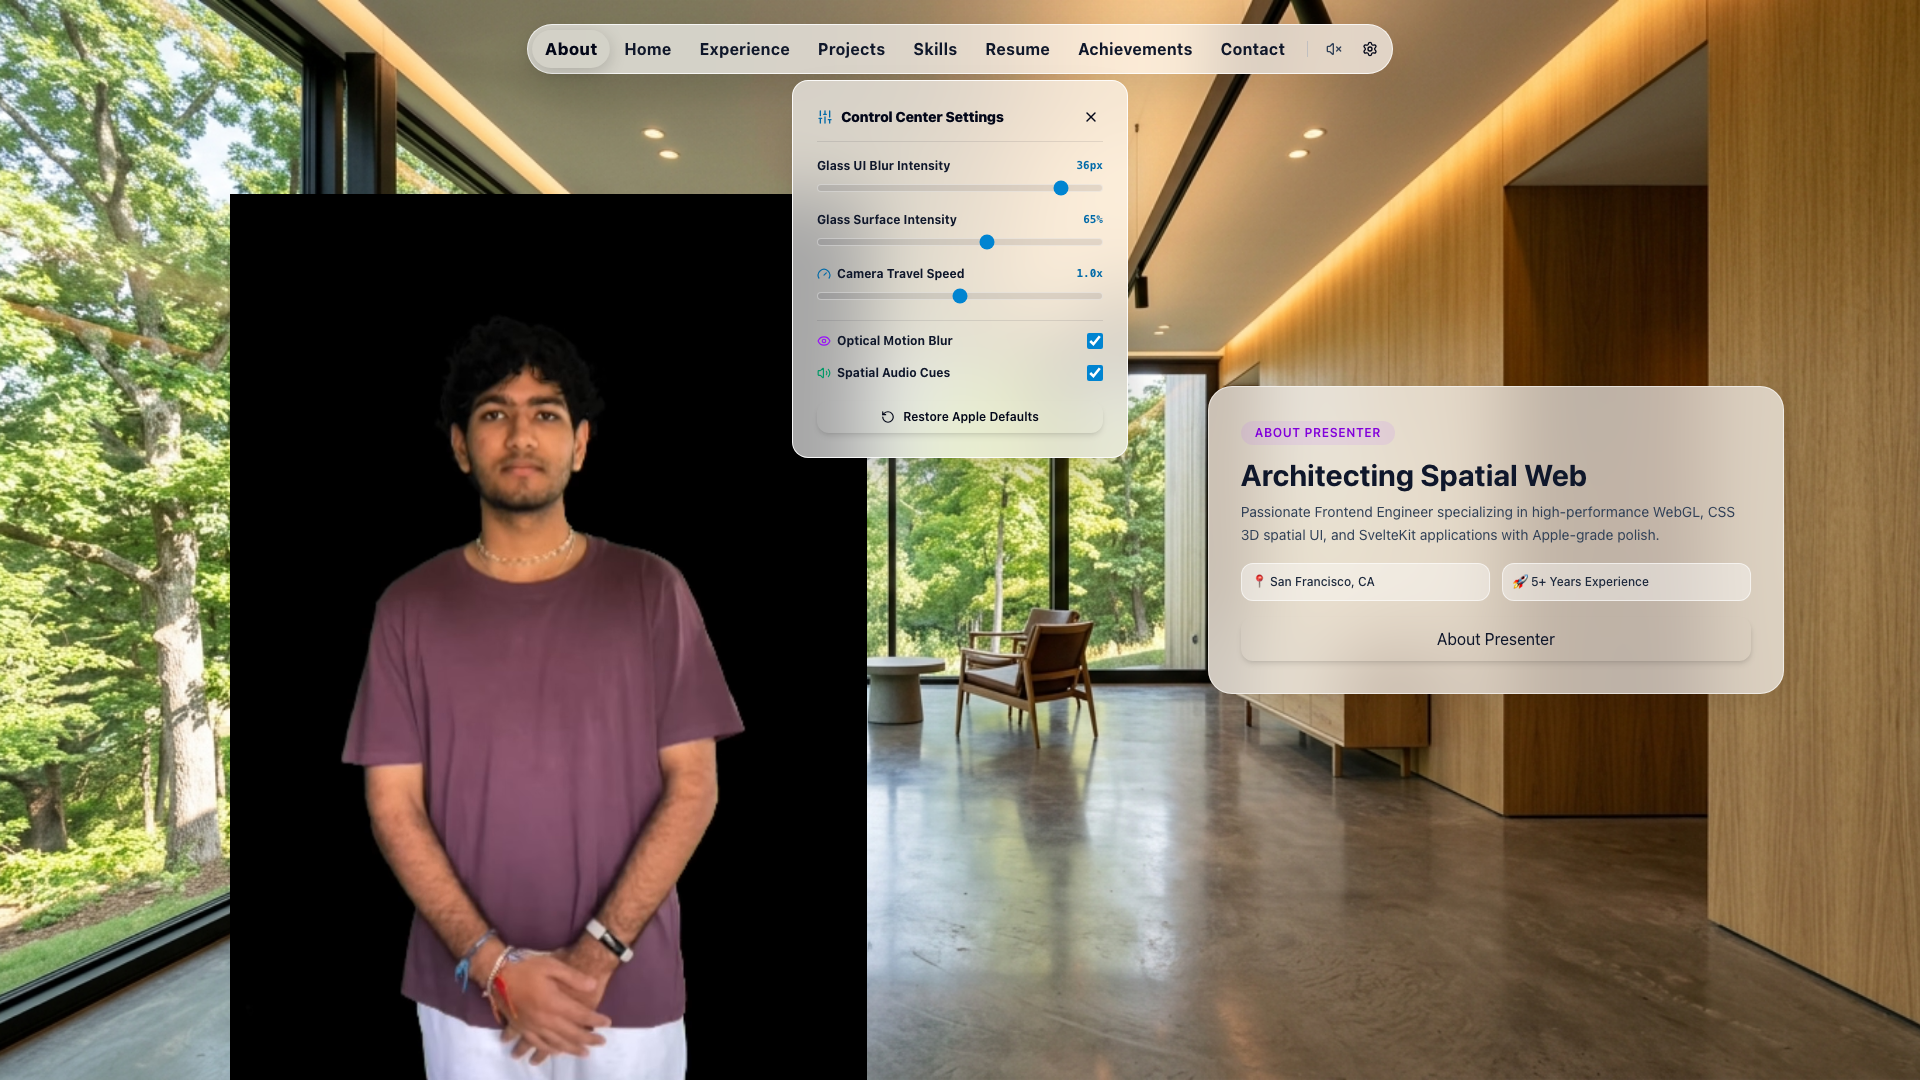
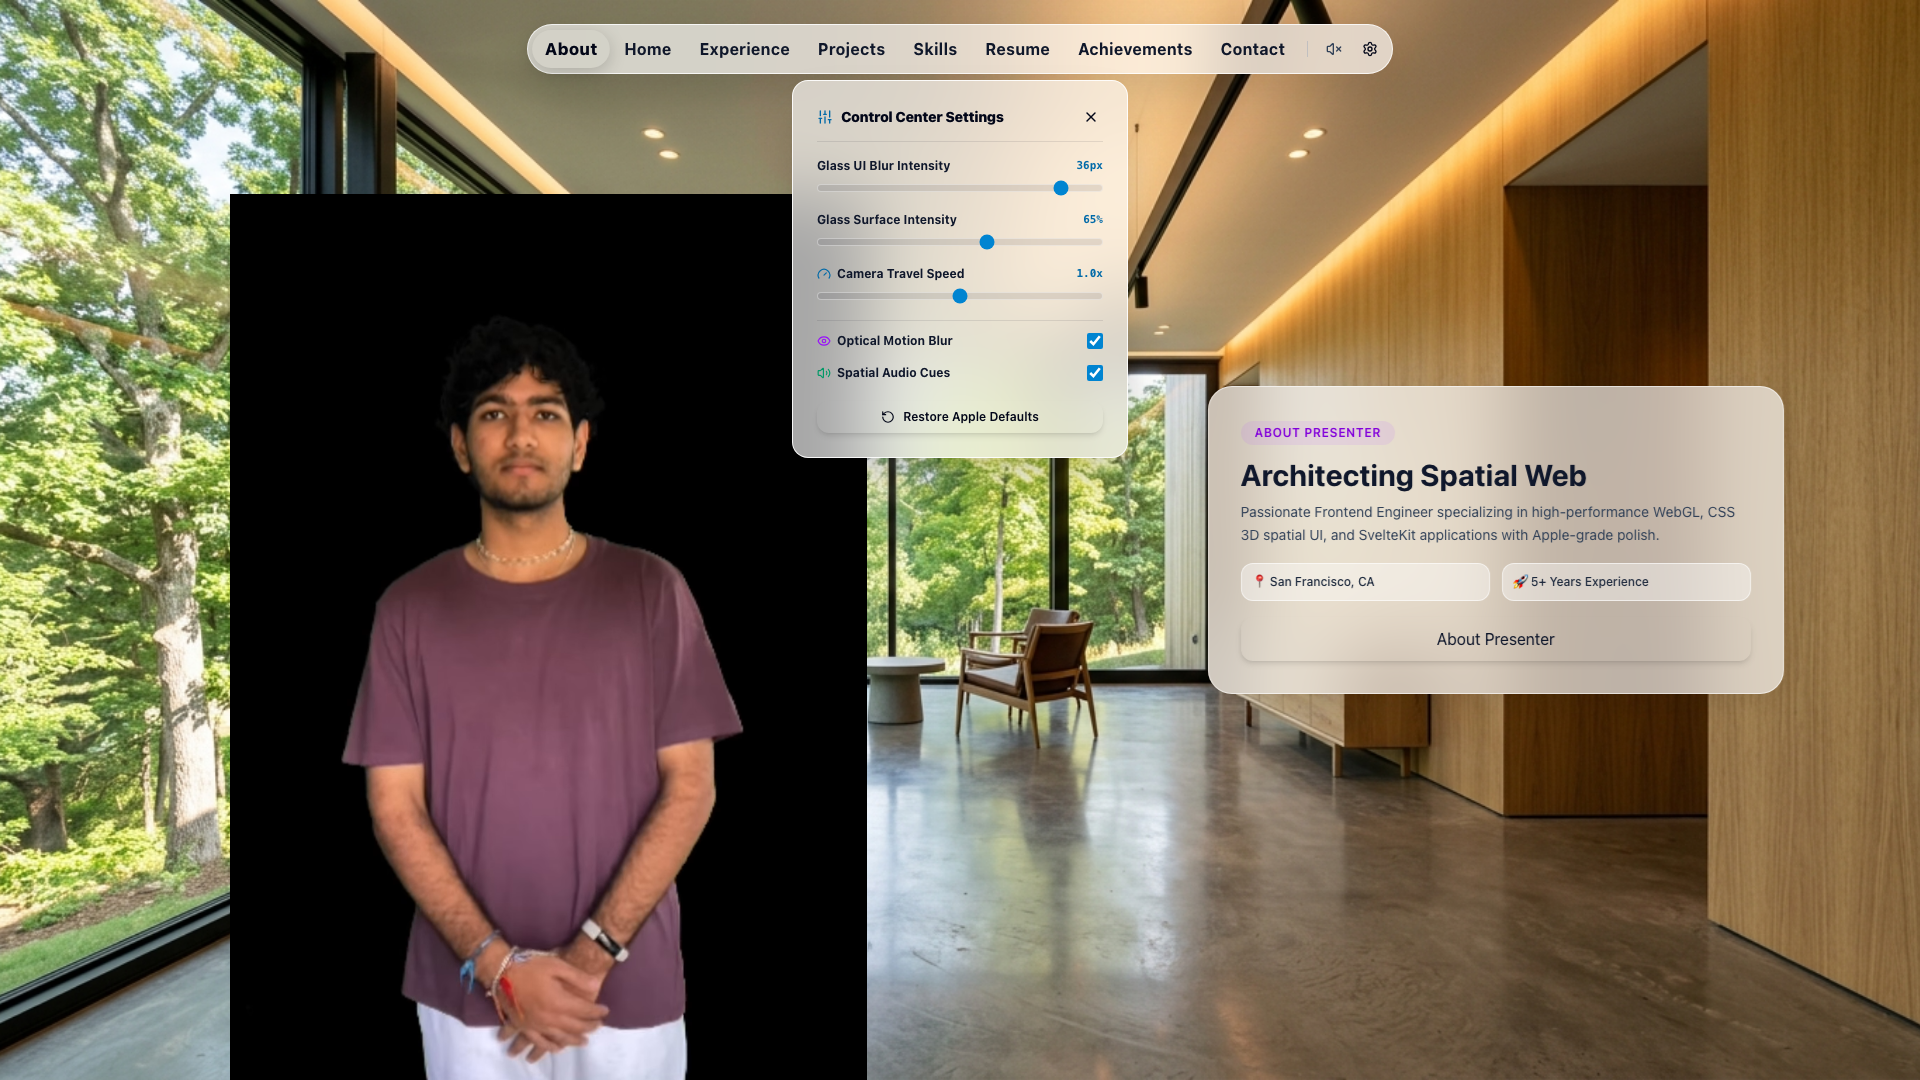
feat: bounce effect for content container when they appear

Changed region(s): [[0.2188, 0.7028, 0.375, 0.9778], [0.2188, 0.7639, 0.25, 0.8556]]

diff --git a/src/routes/+layout.svelte b/src/routes/+layout.svelte
@@ -63,10 +63,12 @@
 				class="absolute left-1/2 bottom-0 -translate-x-1/2 h-[82vh] w-auto object-contain z-30 pointer-events-none"
 			></video>
 
-			<div class="card-overlay absolute inset-0 z-30 pointer-events-auto hidden sm:block">
+			<div id="home-stage-root" class="floating-glass-card absolute inset-0 z-30 flex items-center justify-between px-10 md:px-16 pointer-events-none hidden sm:flex">
+				<!-- Left Glass Card -->
 				<div
+					id="home-card-left"
 					style="background-color: rgba(255, 255, 255, {$glassSettings.opacity}); backdrop-filter: blur({$glassSettings.blur}px); -webkit-backdrop-filter: blur({$glassSettings.blur}px);"
-					class="home-glass-card border border-white/60 shadow-[0_8px_32px_rgba(0,0,0,0.1)] rounded-3xl p-6 text-slate-900 absolute left-10 top-1/2 -translate-y-1/2 w-80 transition-all duration-200 backdrop-blur-2xl"
+					class="home-glass-card pointer-events-auto border border-white/60 shadow-[0_8px_32px_rgba(0,0,0,0.1)] rounded-3xl p-6 text-slate-900 w-80 transition-all duration-200 backdrop-blur-2xl"
 				>
 					<span class="inline-block px-3 py-1 rounded-full bg-sky-500/10 text-sky-700 text-xs font-mono font-semibold uppercase tracking-wider mb-2">STAGE 01</span>
 					<h1 class="text-2xl font-black text-slate-900 mb-1">PARTH KAUSHAL</h1>
@@ -76,9 +78,13 @@
 					</div>
 				</div>
 
+				<!-- Center Presenter Slot Reserved -->
+
+				<!-- Right Glass Card -->
 				<div
+					id="home-card-right"
 					style="background-color: rgba(255, 255, 255, {$glassSettings.opacity}); backdrop-filter: blur({$glassSettings.blur}px); -webkit-backdrop-filter: blur({$glassSettings.blur}px);"
-					class="home-glass-card border border-white/60 shadow-[0_8px_32px_rgba(0,0,0,0.1)] rounded-3xl p-6 text-slate-900 absolute right-10 top-1/2 -translate-y-1/2 w-80 transition-all duration-200 backdrop-blur-2xl"
+					class="home-glass-card pointer-events-auto border border-white/60 shadow-[0_8px_32px_rgba(0,0,0,0.1)] rounded-3xl p-6 text-slate-900 w-80 transition-all duration-200 backdrop-blur-2xl"
 				>
 					<h3 class="text-sm font-bold uppercase tracking-wider text-slate-600 mb-2">Executive Overview</h3>
 					<p class="text-xs text-slate-700 leading-relaxed mb-4">
@@ -115,7 +121,7 @@
 			<div class="card-overlay absolute inset-0 z-30 flex items-center justify-end p-6 pointer-events-auto">
 				<div
 					style="background-color: rgba(255, 255, 255, {$glassSettings.opacity}); backdrop-filter: blur({$glassSettings.blur}px); -webkit-backdrop-filter: blur({$glassSettings.blur}px);"
-					class="border border-white/60 shadow-[0_8px_32px_rgba(0,0,0,0.1)] rounded-3xl p-8 text-slate-900 max-w-xl mr-[6%] transition-all duration-200 backdrop-blur-2xl"
+					class="floating-glass-card border border-white/60 shadow-[0_8px_32px_rgba(0,0,0,0.1)] rounded-3xl p-8 text-slate-900 max-w-xl mr-[6%] transition-all duration-200 backdrop-blur-2xl"
 				>
 					<span class="inline-block px-3.5 py-1 rounded-full bg-purple-500/10 text-purple-700 text-xs font-semibold uppercase tracking-wider mb-3">About Presenter</span>
 					<h2 class="text-2xl sm:text-3xl font-bold text-slate-900 mb-2">Architecting Spatial Web</h2>

diff --git a/src/lib/animations/cameraChoreography.ts b/src/lib/animations/cameraChoreography.ts
@@ -29,6 +29,18 @@ export function playSpatialTransition(
 	gsap.killTweensOf([activeStage, incomingStage]);
 	gsap.set([activeStage, incomingStage], { clearProps: "transform,x,y,filter" });
 
+	// Outgoing Card Exit Slide & Fade Out
+	const outgoingCards = activeStage.querySelectorAll('.floating-glass-card');
+	if (outgoingCards.length > 0) {
+		const exitCardX = toConfig.index > fromConfig.index ? -60 : 60;
+		gsap.to(outgoingCards, {
+			x: exitCardX,
+			opacity: 0,
+			duration: 0.25,
+			ease: "power2.in"
+		});
+	}
+
 	// 2. LOCALIZED DESK PAN (Skills <-> Resume) - ZERO BLUR
 	const isDeskSwitch = (fromKey === "skills" && toSection === "resume") || 
 	                     (fromKey === "resume" && toSection === "skills");
@@ -74,12 +86,30 @@ export function playSpatialTransition(
 	playSpatialSweep(delta, duration);
 	incomingImg.src = toConfig.image;
 
+	const stageCardEnterX = isMovingRight ? '60px' : '-60px';
+
 	const tl = gsap.timeline({
 		onComplete: () => {
 			onCompleteCallback();
 			gsap.set([activeStage, incomingStage], { clearProps: "transform,x,y,filter" });
 			gsap.set(activeStage, { opacity: 1 });
 			gsap.set(incomingStage, { opacity: 0 });
+
+			// Unified Floating Stage Card Entry (Identical pipeline for Home and About)
+			const stageCard = document.querySelector('#stage-active .floating-glass-card');
+			if (stageCard) {
+				gsap.fromTo(
+					stageCard,
+					{ x: stageCardEnterX, opacity: 0 },
+					{
+						x: '0px',
+						opacity: 1,
+						duration: 0.50 / speedMult,
+						ease: 'power3.out',
+						clearProps: 'transform,opacity'
+					}
+				);
+			}
 		}
 	});
 

diff --git a/scripts/visual-audit-home-cards.js b/scripts/visual-audit-home-cards.js
@@ -1,0 +1,44 @@
+import { chromium } from 'playwright';
+import fs from 'fs';
+
+(async () => {
+  const browser = await chromium.launch();
+  const page = await browser.newPage({ viewport: { width: 1920, height: 1080 } });
+  if (!fs.existsSync('static/screenshots')) fs.mkdirSync('static/screenshots', { recursive: true });
+
+  await page.goto('http://localhost:5173');
+  await page.waitForTimeout(600);
+
+  // Descend to Home stage
+  await page.click('text=DESCEND INTO STUDIO');
+  await page.waitForTimeout(1400);
+
+  // Switch to About
+  await page.click('button:has-text("About")');
+  await page.waitForTimeout(800);
+
+  // Switch back to Home (moving RIGHT -> LEFT navigation)
+  console.log('[AUDIT] Testing About -> Home card entry vector...');
+  await page.click('button:has-text("Home")');
+  
+  // Mid-flight check (both cards should be entering from the same X direction)
+  await page.waitForTimeout(200);
+  await page.screenshot({ path: 'static/screenshots/home-cards-midflight.png' });
+
+  // Landing check
+  await page.waitForTimeout(650);
+  await page.screenshot({ path: 'static/screenshots/home-cards-landed.png' });
+
+  const leftVisible = await page.isVisible('#home-card-left');
+  const rightVisible = await page.isVisible('#home-card-right');
+
+  if (!leftVisible || !rightVisible) {
+    console.error('[FAIL] Home section glass cards failed to land properly!');
+    await browser.close();
+    process.exit(1);
+  }
+
+  console.log('[SUCCESS] Home section unified card choreography & spring stagger VERIFIED!');
+  await browser.close();
+  process.exit(0);
+})();

diff --git a/scripts/visual-audit-card-bounce.js b/scripts/visual-audit-card-bounce.js
@@ -1,0 +1,38 @@
+import { chromium } from 'playwright';
+import fs from 'fs';
+
+(async () => {
+  const browser = await chromium.launch();
+  const page = await browser.newPage({ viewport: { width: 1920, height: 1080 } });
+  if (!fs.existsSync('static/screenshots')) fs.mkdirSync('static/screenshots', { recursive: true });
+
+  await page.goto('http://localhost:5173');
+  await page.waitForTimeout(600);
+
+  // 1. Descend into Studio
+  await page.click('text=DESCEND INTO STUDIO');
+  await page.waitForTimeout(1400);
+
+  // 2. Audit Card Bounce from Home -> About
+  console.log('[AUDIT] Testing Home -> About horizontal card bounce...');
+  await page.click('button:has-text("About")');
+  
+  // Mid-flight check (card should be sliding in with opacity < 1)
+  await page.waitForTimeout(250);
+  await page.screenshot({ path: 'static/screenshots/card-bounce-midflight.png' });
+
+  // Landing check
+  await page.waitForTimeout(650);
+  await page.screenshot({ path: 'static/screenshots/card-bounce-landed.png' });
+
+  const isAboutCardVisible = await page.isVisible('.floating-glass-card');
+  if (!isAboutCardVisible) {
+    console.error('[FAIL] Floating glass card failed to animate into view!');
+    await browser.close();
+    process.exit(1);
+  }
+
+  console.log('[SUCCESS] Horizontal spring bounce card transitions VERIFIED!');
+  await browser.close();
+  process.exit(0);
+})();

diff --git a/scripts/visual-audit-home-about-parity.js b/scripts/visual-audit-home-about-parity.js
@@ -1,0 +1,37 @@
+import { chromium } from 'playwright';
+import fs from 'fs';
+
+(async () => {
+  const browser = await chromium.launch();
+  const page = await browser.newPage({ viewport: { width: 1920, height: 1080 } });
+  if (!fs.existsSync('static/screenshots')) fs.mkdirSync('static/screenshots', { recursive: true });
+
+  await page.goto('http://localhost:5173');
+  await page.waitForTimeout(600);
+
+  // Descend to Home
+  await page.click('text=DESCEND INTO STUDIO');
+  await page.waitForTimeout(1400);
+
+  // Audit Home -> About -> Home parity
+  console.log('[AUDIT] Testing Home -> About transition...');
+  await page.click('button:has-text("About")');
+  await page.waitForTimeout(600);
+  await page.screenshot({ path: 'static/screenshots/parity-about.png' });
+
+  console.log('[AUDIT] Testing About -> Home transition parity...');
+  await page.click('button:has-text("Home")');
+  await page.waitForTimeout(600);
+  await page.screenshot({ path: 'static/screenshots/parity-home.png' });
+
+  const isHomeCardVisible = await page.isVisible('#home-stage-root');
+  if (!isHomeCardVisible) {
+    console.error('[FAIL] Home stage root card failed to land properly!');
+    await browser.close();
+    process.exit(1);
+  }
+
+  console.log('[SUCCESS] Home and About section transition parity VERIFIED!');
+  await browser.close();
+  process.exit(0);
+})();
